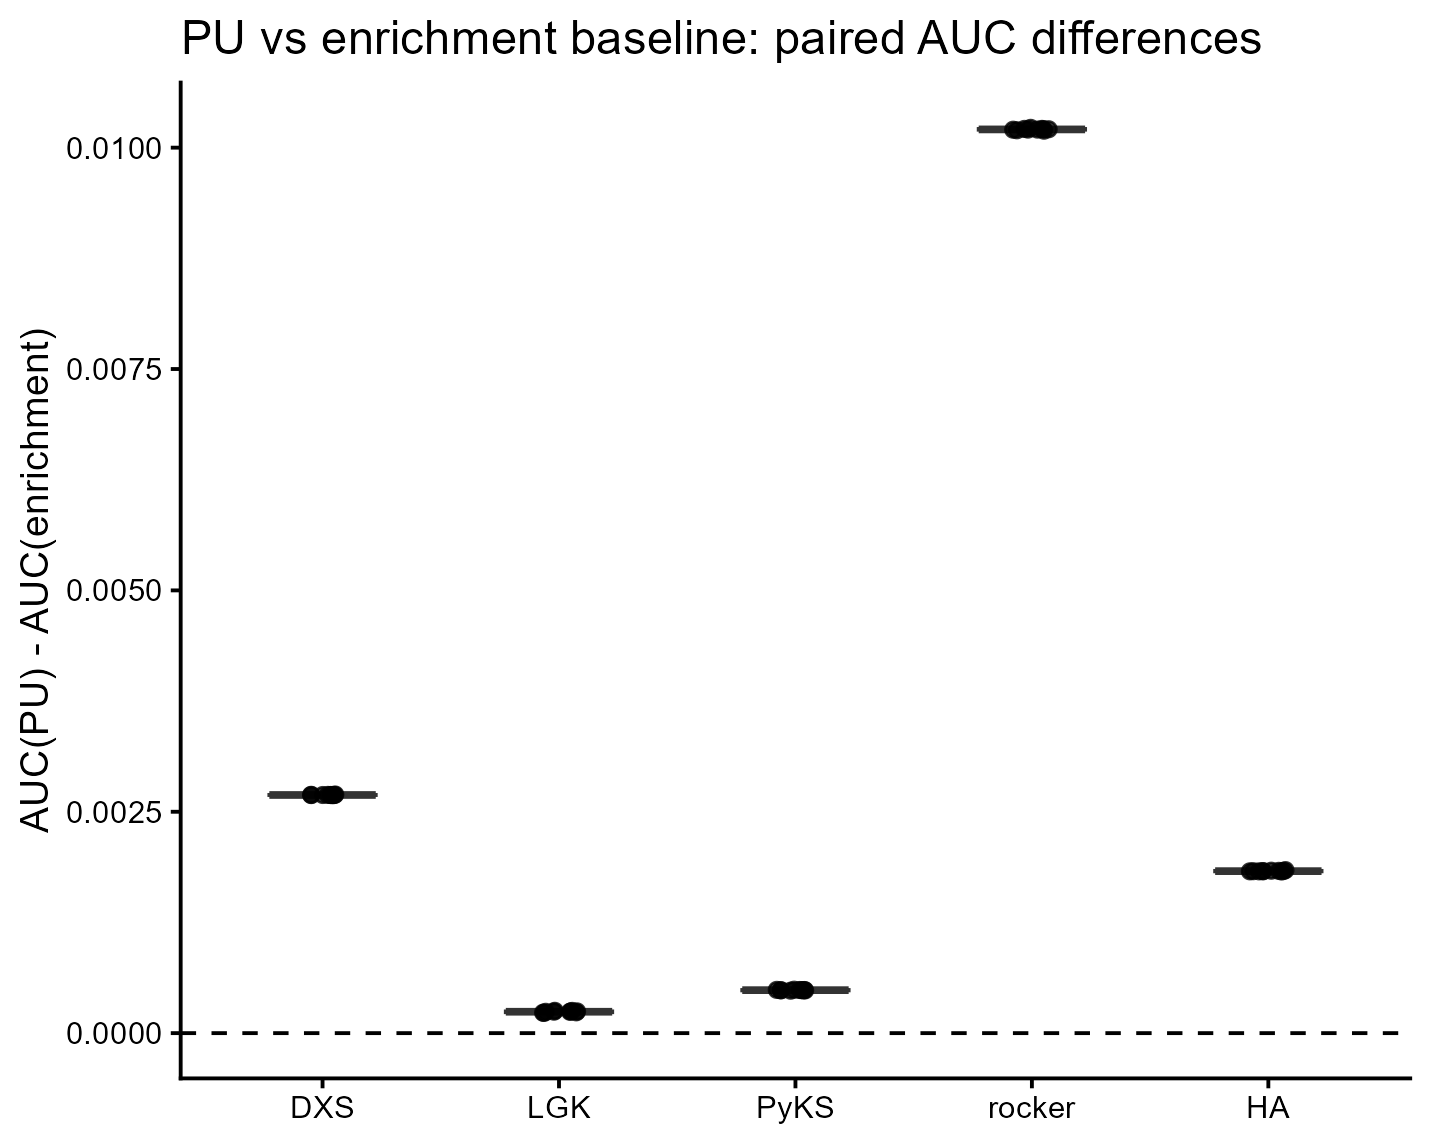
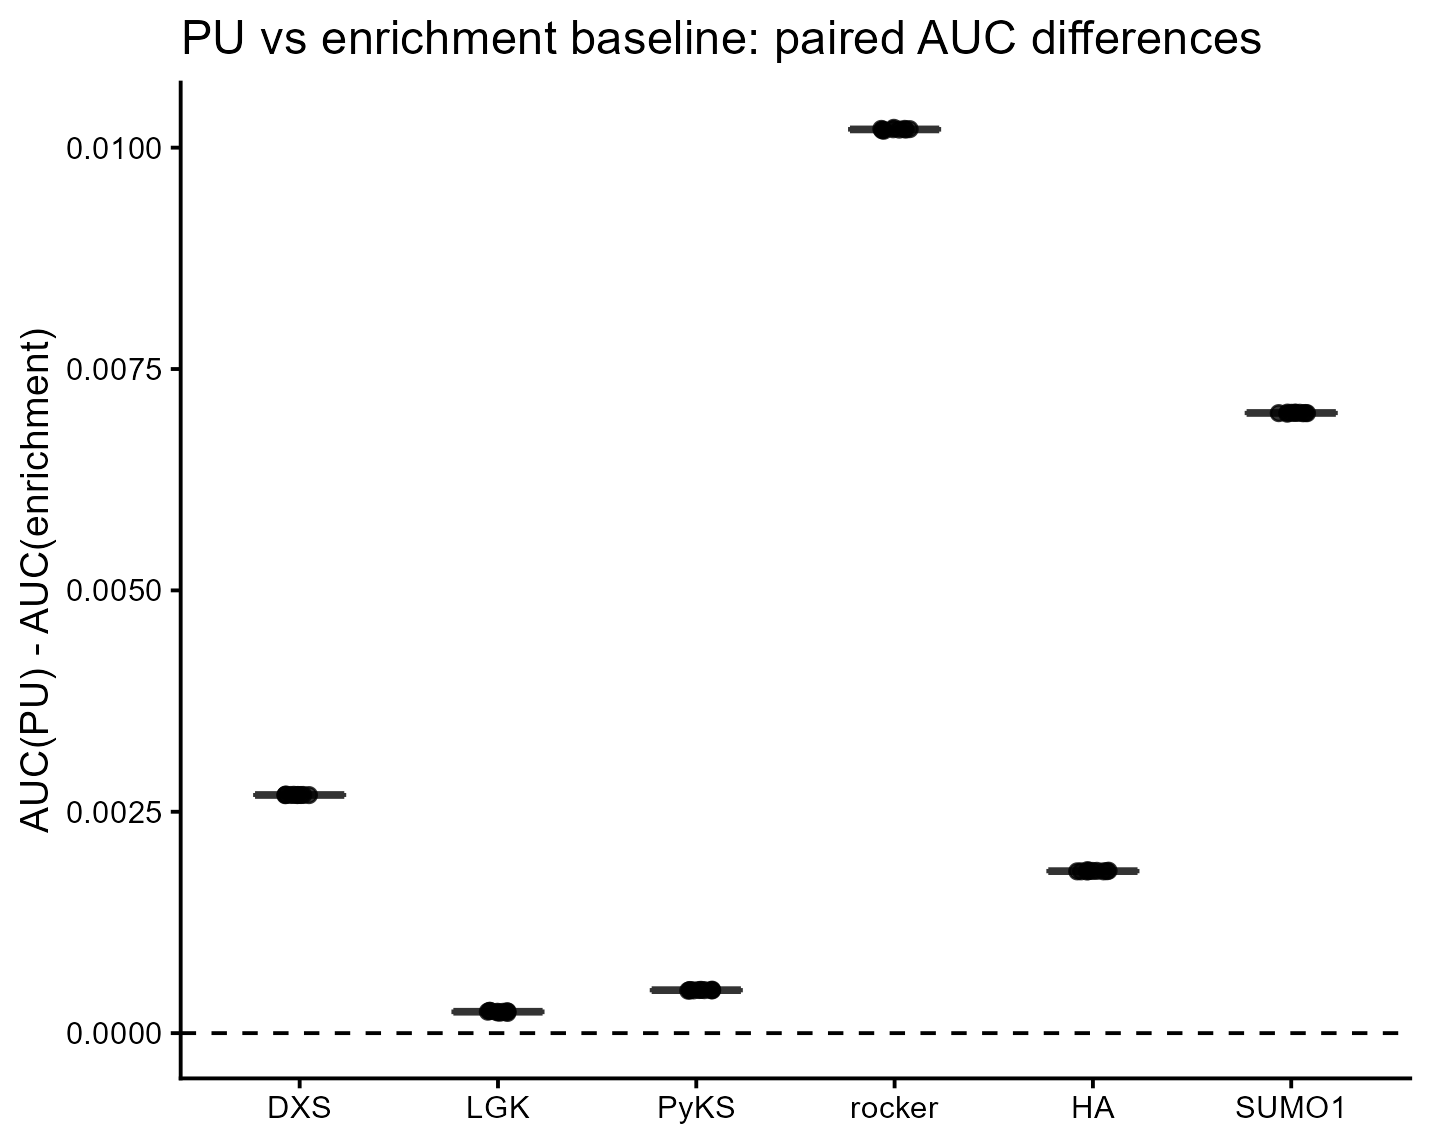
reproduce SUMO1 enrichment baseline comparison

diff --git a/reproduction/reports/enrichment-baseline-reproduction.md b/reproduction/reports/enrichment-baseline-reproduction.md
@@ -46,11 +46,13 @@ rocker 也按 10 次重复、10 折设置完成。逐重复平均后，enrichmen
 Rscript reproduction/summarize_enrichment_reproduction.R reproduction/results/enrichment_rocker_full/rocker_enrichment_summary.csv 0.010200 10
 ```
 
-当前 DXS、LGK、PyKS、rocker 和 HA 五个数据集均完成作者的 10×10 设置，PU 相对 enrichment 的平均 AUC 差均为正，并与作者报告值接近。五数据集逐重复差值图为 `reproduction/results/figures/enrichment_pu_auc_difference_all.png`。
+当前 DXS、LGK、PyKS、rocker、HA 和 SUMO1 六个数据集均完成作者的 10×10 设置，PU 相对 enrichment 的平均 AUC 差均为正，并与作者报告值接近。六数据集逐重复差值图为 `reproduction/results/figures/enrichment_pu_auc_difference_all.png`。
 
 PyKS 的 10×10 批次也已完成。enrichment 平均 AUC 为 `0.8492676`，PU 平均 AUC 为 `0.8497528`，重复级差值均值为 `+0.0004852`（标准差 `3.34 × 10^-6`，95% t 区间 `[0.0004828, 0.0004876]`，重复级单样本 t 检验 `p = 5.65 × 10^-21`）。作者报告 `mean_diff = 0.000492`，本地差约 `−6.8 × 10^-6`。统计上差异稳定为正，但绝对 AUC 增益约 `0.0005`，实际大小有限；不能只凭很小的 p 值称为显著的实际性能提升。结果见 `reproduction/results/enrichment_pyks_full/PyKS_enrichment_detail.csv`、`PyKS_enrichment_summary.csv` 和 `PyKS_enrichment_repro_summary.csv`；重复日志、逐折指标和 RDS 保存在 `PyKS/` 子目录。
 
-HA 的 10×10 批次已完成。enrichment 平均 AUC 为 `0.6786324`，PU 平均 AUC 为 `0.6804630`，重复级差值均值为 `+0.0018305`（标准差 `4.61 × 10^-6`，95% t 区间 `[0.0018272, 0.0018338]`，重复级单样本 t 检验 `p = 6.62 × 10^-25`）；作者报告 `mean_diff = 0.001830`，本地结果与其吻合。结果见 `reproduction/results/enrichment_ha_full/HA_enrichment_detail.csv`、`HA_enrichment_summary.csv` 和 `HA_enrichment_repro_summary.csv`；十次重复的逐折指标、日志和 RDS 保存在 `HA/` 子目录。首轮计算在最终汇总时异常退出；使用断点续跑重读全部十份完整逐折指标后，批次脚本正常生成 detail 和 summary，统计脚本再生成置信区间与检验结果，五数据集图也已更新。
+HA 的 10×10 批次已完成。enrichment 平均 AUC 为 `0.6786324`，PU 平均 AUC 为 `0.6804630`，重复级差值均值为 `+0.0018305`（标准差 `4.61 × 10^-6`，95% t 区间 `[0.0018272, 0.0018338]`，重复级单样本 t 检验 `p = 6.62 × 10^-25`）；作者报告 `mean_diff = 0.001830`，本地结果与其吻合。结果见 `reproduction/results/enrichment_ha_full/HA_enrichment_detail.csv`、`HA_enrichment_summary.csv` 和 `HA_enrichment_repro_summary.csv`；十次重复的逐折指标、日志和 RDS 保存在 `HA/` 子目录。首轮计算在最终汇总时异常退出；使用断点续跑重读全部十份完整逐折指标后，批次脚本正常生成 detail 和 summary，统计脚本再生成置信区间与检验结果。
+
+SUMO1 的 10×10 批次亦已完成。enrichment 平均 AUC 为 `0.7562202`，PU 平均 AUC 为 `0.7632235`，重复级差值均值为 `+0.0070034`（标准差 `3.64 × 10^-6`，95% t 区间 `[0.0070008, 0.0070060]`，重复级单样本 t 检验 `p = 4.50 × 10^-31`）；作者报告 `mean_diff = 0.007006`，本地结果非常接近。结果见 `reproduction/results/enrichment_sumo1_full/SUMO1_enrichment_detail.csv`、`SUMO1_enrichment_summary.csv` 和 `SUMO1_enrichment_repro_summary.csv`；十次重复的逐折指标、日志和 RDS 保存在 `SUMO1/` 子目录。
 
 ## 已知限制
 
